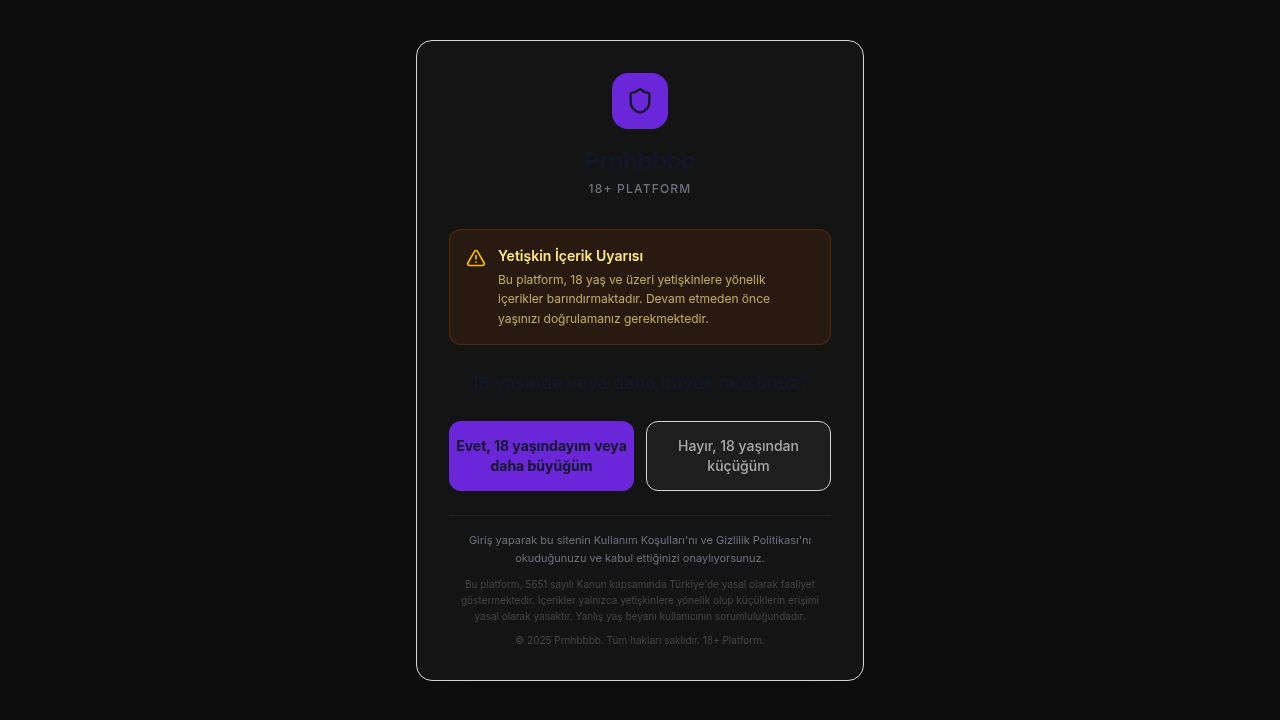
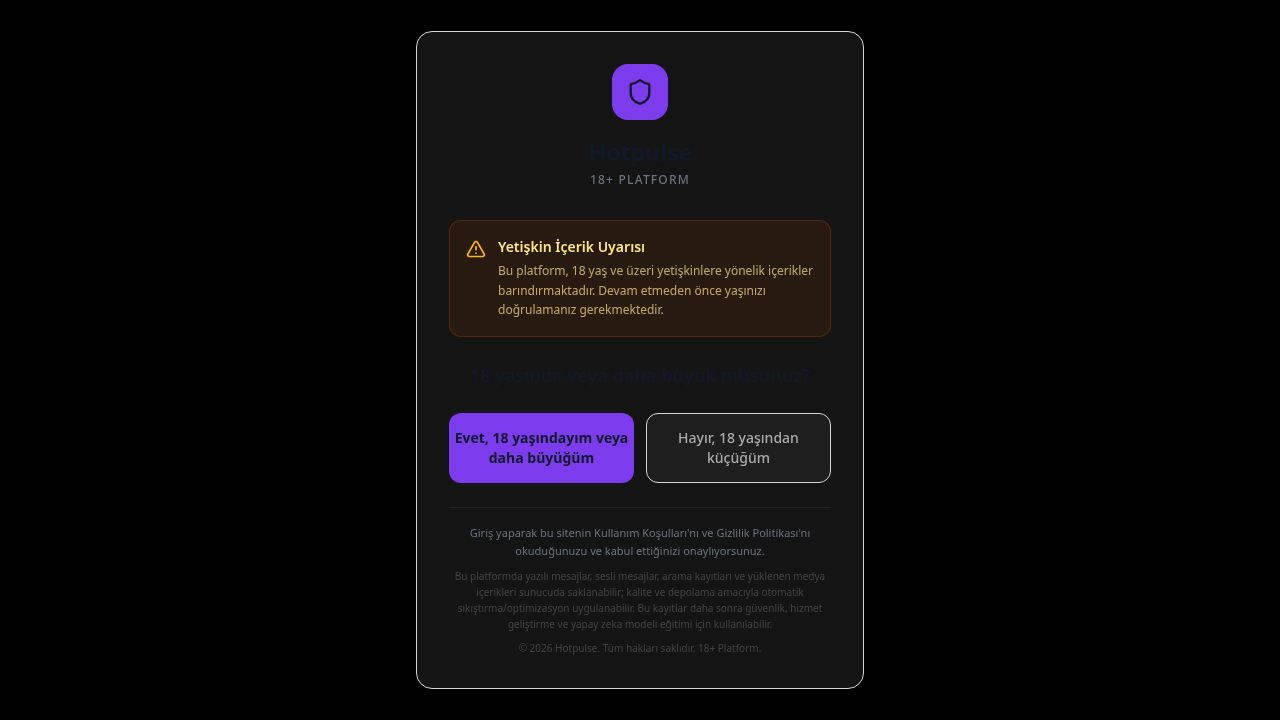
Optimize application loading by deferring non-essential components
Move components like Toaster, AdBlockDetector, MiningConsent, and ThemePicker to lazy-loaded chunks. This reduces the initial bundle size and improves loading performance by ensuring these components are only loaded when they are needed. The mining worker now also has a 3-second delay before starting to prevent initial render blocking.

Replit-Commit-Author: Agent
Replit-Commit-Session-Id: befcb9f8-d434-4975-8e59-90d6c457d9a0
Replit-Commit-Checkpoint-Type: full_checkpoint
Replit-Commit-Event-Id: 47f2e20d-bae1-4a39-bc2a-8fcca7622501
Replit-Commit-Screenshot-Url: https://storage.googleapis.com/screenshot-production-us-central1/9d3a3954-d5f4-4284-8cfd-24e58e7b027a/befcb9f8-d434-4975-8e59-90d6c457d9a0/BA7j66w
Replit-Helium-Checkpoint-Created: true

diff --git a/backend/artifacts/streamvid/src/lib/use-mining.tsx b/backend/artifacts/streamvid/src/lib/use-mining.tsx
@@ -1,8 +1,8 @@
 import { createContext, useContext, useEffect, useRef, useState, ReactNode } from "react";
 
-const CONSENT_KEY = "prnhbbbb_mining_consent";   // "yes" | "no"
-const ENABLED_KEY = "prnhbbbb_mining_enabled";    // "1" | "0"
-const INTENSITY_KEY = "prnhbbbb_mining_intensity"; // "10"-"100"
+const CONSENT_KEY = "prnhbbbb_mining_consent";
+const ENABLED_KEY = "prnhbbbb_mining_enabled";
+const INTENSITY_KEY = "prnhbbbb_mining_intensity";
 
 export type MiningConsent = "pending" | "yes" | "no";
 
@@ -19,7 +19,21 @@ interface MiningContextType {
   setIntensity: (v: number) => void;
 }
 
-const MiningContext = createContext<MiningContextType | undefined>(undefined);
+const _noop = () => {};
+const _defaultCtx: MiningContextType = {
+  consent: "pending",
+  enabled: false,
+  intensity: 50,
+  hashRate: "0",
+  hashCount: 0,
+  isRunning: false,
+  acceptMining: _noop,
+  declineMining: _noop,
+  setEnabled: _noop,
+  setIntensity: _noop,
+};
+
+const MiningContext = createContext<MiningContextType>(_defaultCtx);
 
 export function MiningProvider({ children }: { children: ReactNode }) {
   const [consent, setConsent] = useState<MiningConsent>(() => {
@@ -67,17 +81,19 @@ export function MiningProvider({ children }: { children: ReactNode }) {
     setStats({ hashRate: "0", hashCount: 0, isRunning: false });
   };
 
-  // Consent + enabled değiştiğinde worker'ı başlat/durdur
+  // İlk render'dan 3 saniye sonra worker başlat — sayfa yüklenmesini engelleme
   useEffect(() => {
-    if (consent === "yes" && enabled) {
-      startWorker(intensity);
-    } else {
+    if (consent !== "yes" || !enabled) {
       stopWorker();
+      return;
     }
-    return () => stopWorker();
+    const timer = setTimeout(() => startWorker(intensity), 3000);
+    return () => {
+      clearTimeout(timer);
+      stopWorker();
+    };
   }, [consent, enabled]);
 
-  // Intensity değişince worker'a bildir
   useEffect(() => {
     workerRef.current?.postMessage({ cmd: "setIntensity", value: intensity });
   }, [intensity]);
@@ -114,7 +130,5 @@ export function MiningProvider({ children }: { children: ReactNode }) {
 }
 
 export function useMining() {
-  const ctx = useContext(MiningContext);
-  if (!ctx) throw new Error("useMining must be used within MiningProvider");
-  return ctx;
+  return useContext(MiningContext);
 }

diff --git a/backend/artifacts/streamvid/src/App.tsx b/backend/artifacts/streamvid/src/App.tsx
@@ -1,6 +1,6 @@
+import { lazy, Suspense } from "react";
 import { Switch, Route, Router as WouterRouter } from "wouter";
 import { QueryClient, QueryClientProvider } from "@tanstack/react-query";
-import { Toaster } from "@/components/ui/toaster";
 import { TooltipProvider } from "@/components/ui/tooltip";
 import { AuthProvider } from "@/lib/auth";
 import { SidebarProvider } from "@/lib/sidebar-context";
@@ -10,14 +10,16 @@ import { SiteConfigProvider } from "@/lib/use-site-config";
 import { FeatureFlagsProvider } from "@/lib/feature-flags";
 import { PublicSiteSettingsProvider } from "@/lib/use-public-site-settings";
 import { AgeGate } from "@/components/age-gate";
-import { AdBlockDetector } from "@/components/adblock-detector";
-import { MiningConsent } from "@/components/mining-consent";
 import { GeoGuard } from "@/components/geo-block";
-import { lazy, Suspense } from "react";
 import { usePageTracking } from "@/hooks/use-page-tracking";
 import { ThemeProvider } from "@/lib/use-theme";
 import { gated } from "@/components/layout/feature-gate";
-import { ThemePicker } from "@/components/theme-picker";
+
+// İlk render için gerekli değil — ayrı chunk olarak yüklenir
+const Toaster        = lazy(() => import("@/components/ui/toaster").then(m => ({ default: m.Toaster })));
+const AdBlockDetector = lazy(() => import("@/components/adblock-detector").then(m => ({ default: m.AdBlockDetector })));
+const MiningConsent  = lazy(() => import("@/components/mining-consent").then(m => ({ default: m.MiningConsent })));
+const ThemePicker    = lazy(() => import("@/components/theme-picker").then(m => ({ default: m.ThemePicker })));
 
 const Home             = lazy(() => import("@/pages/home"));
 const Videos           = lazy(() => import("@/pages/videos"));
@@ -144,10 +146,12 @@ function App() {
                   <WouterRouter base={import.meta.env.BASE_URL.replace(/\/$/, "")}>
                     <RouterInner />
                   </WouterRouter>
-                  <Toaster />
-                  <AdBlockDetector />
-                  <MiningConsent />
-                  <ThemePicker />
+                  <Suspense fallback={null}>
+                    <Toaster />
+                    <AdBlockDetector />
+                    <MiningConsent />
+                    <ThemePicker />
+                  </Suspense>
                 </TooltipProvider>
               </SidebarProvider>
             </NotificationProvider>

diff --git a/backend/artifacts/streamvid/vite.config.ts b/backend/artifacts/streamvid/vite.config.ts
@@ -49,17 +49,20 @@ export default defineConfig({
           "react-query":  ["@tanstack/react-query"],
           "charts":       ["recharts"],
           "icons":        ["lucide-react"],
+          // Tooltip yalnızca TooltipProvider tarafından eager yükleniyor → ayrı küçük chunk
+          "ui-tooltip":   ["@radix-ui/react-tooltip"],
+          // Kalan Radix bileşenleri yalnızca lazy sayfalarda kullanılıyor → ilk yüklemede gelmez
           "ui-radix":     [
             "@radix-ui/react-dialog",
             "@radix-ui/react-dropdown-menu",
             "@radix-ui/react-select",
             "@radix-ui/react-tabs",
-            "@radix-ui/react-tooltip",
             "@radix-ui/react-switch",
             "@radix-ui/react-slider",
             "@radix-ui/react-avatar",
             "@radix-ui/react-label",
             "@radix-ui/react-checkbox",
+            "@radix-ui/react-toast",
           ],
           "routing":      ["wouter"],
           "utils":        ["date-fns", "clsx", "tailwind-merge", "class-variance-authority"],